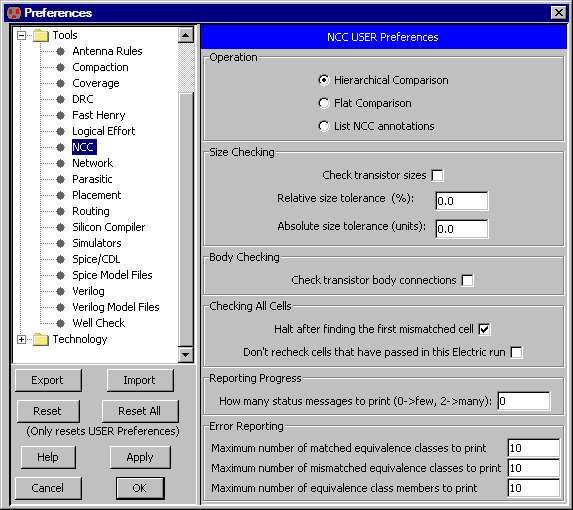
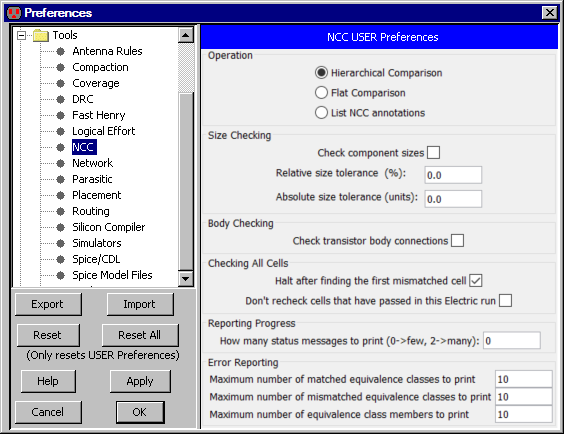
NCC size checking now applies to many components, not just transistors
git-svn-id: svn://svn.savannah.gnu.org/electric/trunk@226 b905213a-9962-419e-bd63-4c908b0646d6

diff --git a/electric/electric-java/com/sun/electric/tool/user/help/helphtml/chap09-07-03.html b/electric/electric-java/com/sun/electric/tool/user/help/helphtml/chap09-07-03.html
@@ -28,8 +28,8 @@ This will report transistor size mismatches.
 
 <H4>Size Checking Section</H4>
 <p>
-The "Size Checking" section controls how NCC compares transistor widths
-and lengths. This section affects two distinct NCC phases: 
+The "Size Checking" section controls how NCC compares component sizes, width and length for transistors,
+area for inductors and resistors. This section affects two distinct NCC phases: 
 netlist comparison and series / parallel combination.
 </p>
 

diff --git a/electric/electric-java/com/sun/electric/tool/user/dialogs/options/NCCTab.java b/electric/electric-java/com/sun/electric/tool/user/dialogs/options/NCCTab.java
@@ -264,8 +264,8 @@ public class NCCTab extends PreferencePanel
         sizeChecking.setBorder(javax.swing.BorderFactory.createTitledBorder("Size Checking"));
         sizeChecking.setLayout(new java.awt.GridBagLayout());
 
-        enableSizeChecking.setText("Check transistor sizes");
-        enableSizeChecking.setActionCommand("Check Transistor Sizes");
+        enableSizeChecking.setText("Check component sizes");
+        enableSizeChecking.setActionCommand("Check Component Sizes");
         enableSizeChecking.setHorizontalTextPosition(javax.swing.SwingConstants.LEADING);
         gridBagConstraints = new java.awt.GridBagConstraints();
         gridBagConstraints.gridx = 0;
